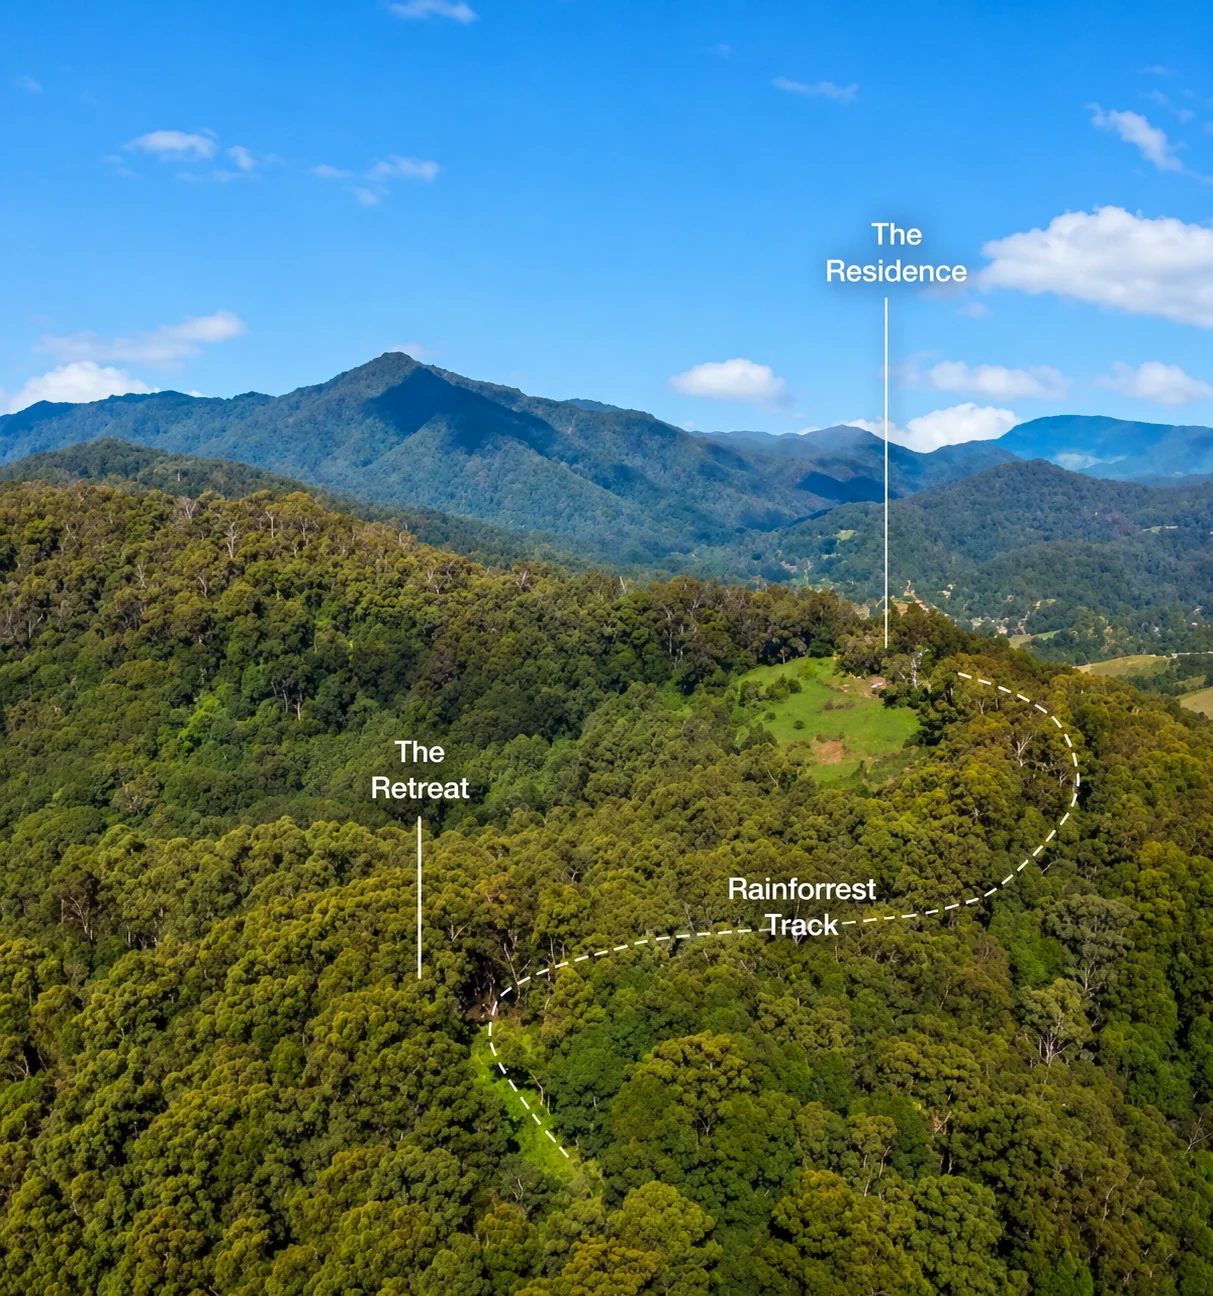
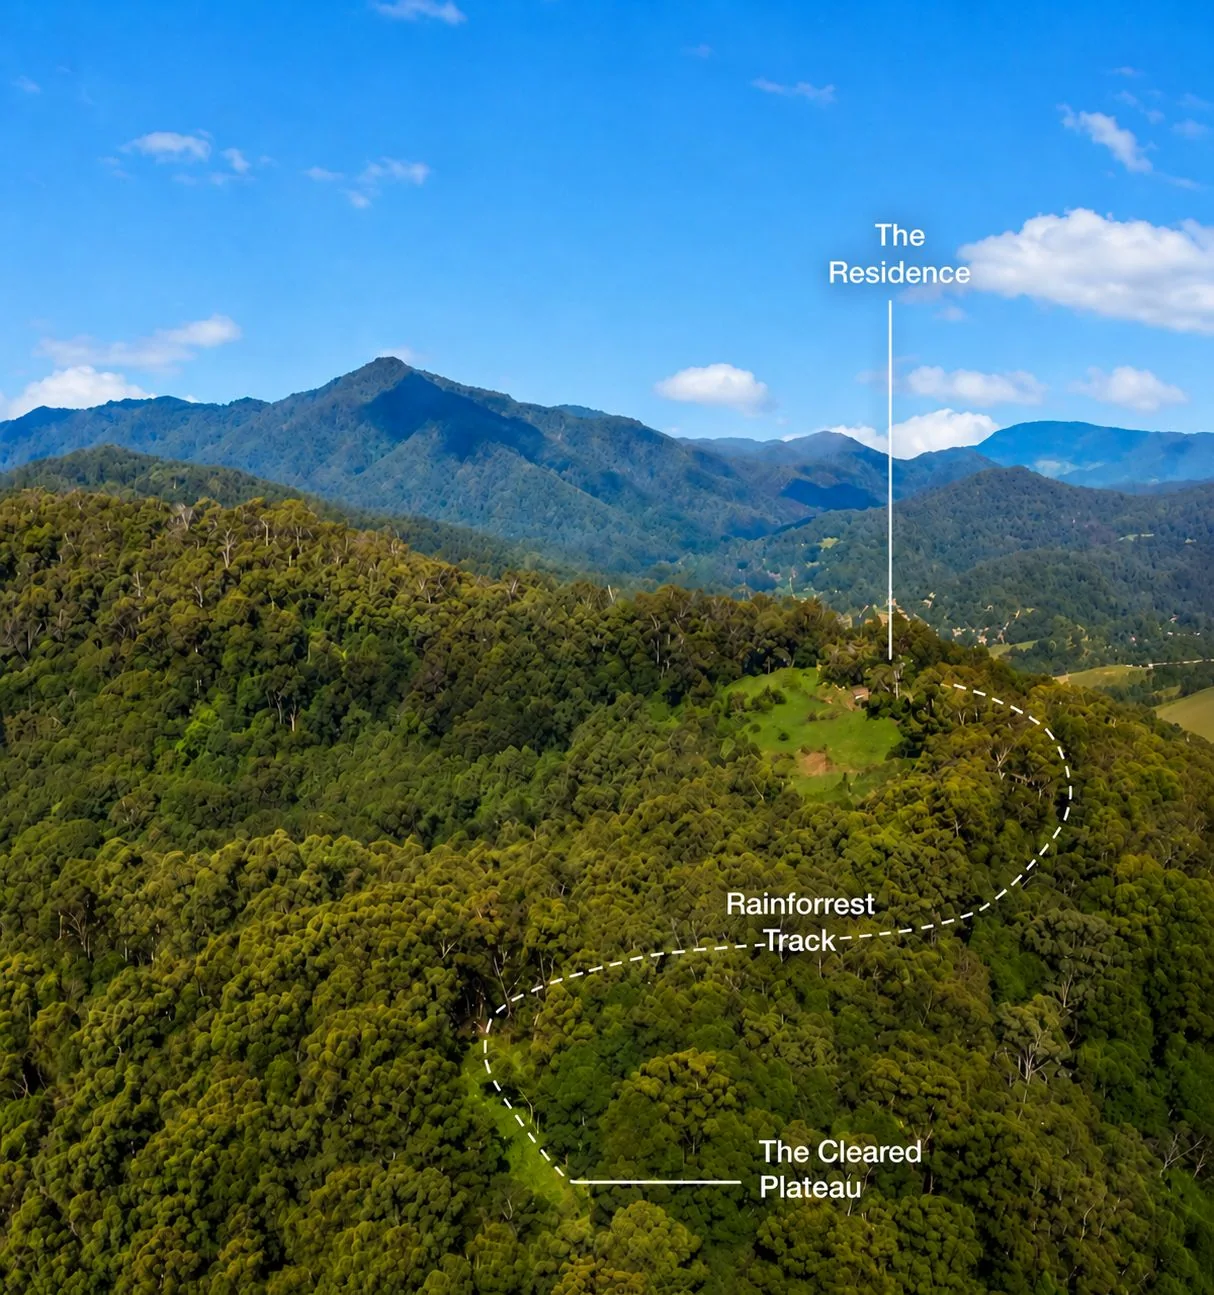
Refinements: connections line-break, retreat zoom, gallery spacing, new Possibility Hero, address-free floor plan, film thumbnail
- Home: Brunswick Heads onto 2nd line of the Tweed Valley Hinterland connections;
  The Film video thumbnail -> Land Hero.
- The Estate: reduce Retreat Potential aerial hover-zoom ~40% (scale 1.85 -> 1.51).
- Gallery: tighten space above the first section (The Residences) and the closing CTA.
- Floor plan: remove baked-in street address; re-export WebP.
- Possibility Hero: swap to the new labelled aerial (Estate Retreat Potential + Future Chapters).

diff --git a/gallery.html b/gallery.html
@@ -94,7 +94,7 @@
     </section>
 
     <!-- ===================== THE RESIDENCES ===================== -->
-    <section class="section gallery-section" id="residences">
+    <section class="section gallery-section" id="residences" style="padding-top:0">
       <div class="wrap">
         <div class="gallery-section__head">
           <p class="eyebrow reveal">The Architecture</p>
@@ -214,7 +214,7 @@
     </section>
 
     <!-- ===================== ENQUIRE CTA ===================== -->
-    <section class="section cta">
+    <section class="section cta" style="padding-top:0">
       <div class="wrap text-col center">
         <div class="divider reveal"></div>
         <h2 class="reveal" data-delay="1">Register your interest in Serra Luma.</h2>

diff --git a/index.html b/index.html
@@ -150,7 +150,7 @@
         </div>
         <figure class="film reveal" data-delay="1">
           <video class="film__video" preload="none" playsinline controls
-                 poster="assets/images/film-poster.jpg">
+                 poster="assets/images/land-hero.webp">
             <source src="assets/video/serra-luma-film.mp4?v=3" type="video/mp4" />
           </video>
           <button class="film__play" type="button" aria-label="Play the film">
@@ -362,7 +362,7 @@
           the coast beyond, Serra Luma offers privacy without isolation.
         </p>
         <p class="reveal" data-delay="3" style="color:var(--stone);font-size:0.82rem;letter-spacing:0.08em;margin-top:1.75rem;opacity:0.82">
-          Uki 5 min &nbsp;·&nbsp; Murwillumbah 20 min &nbsp;·&nbsp; Cabarita Beach 40 min &nbsp;·&nbsp; Brunswick Heads 40 min &nbsp;·&nbsp; Gold Coast Airport 45 min &nbsp;·&nbsp; Byron Bay 50 min
+          Uki 5 min &nbsp;·&nbsp; Murwillumbah 20 min &nbsp;·&nbsp; Cabarita Beach 40 min<br>Brunswick Heads 40 min &nbsp;·&nbsp; Gold Coast Airport 45 min &nbsp;·&nbsp; Byron Bay 50 min
         </p>
       </div>
     </section>

diff --git a/assets/css/styles.css b/assets/css/styles.css
@@ -600,7 +600,7 @@ h3 { font-size: clamp(1.5rem, 2.6vw, 2.1rem); }
 }
 .retreat-card .retreat-map { max-width: none; margin: 0; }
 .retreat-card .retreat-map figcaption { color: var(--muted); }
-.retreat-card .retreat-map--zoom:hover img { transform: scale(1.85); }
+.retreat-card .retreat-map--zoom:hover img { transform: scale(1.51); }
 .retreat-card__footer {
   text-align: center;
   margin-top: clamp(2rem, 4vw, 3rem);